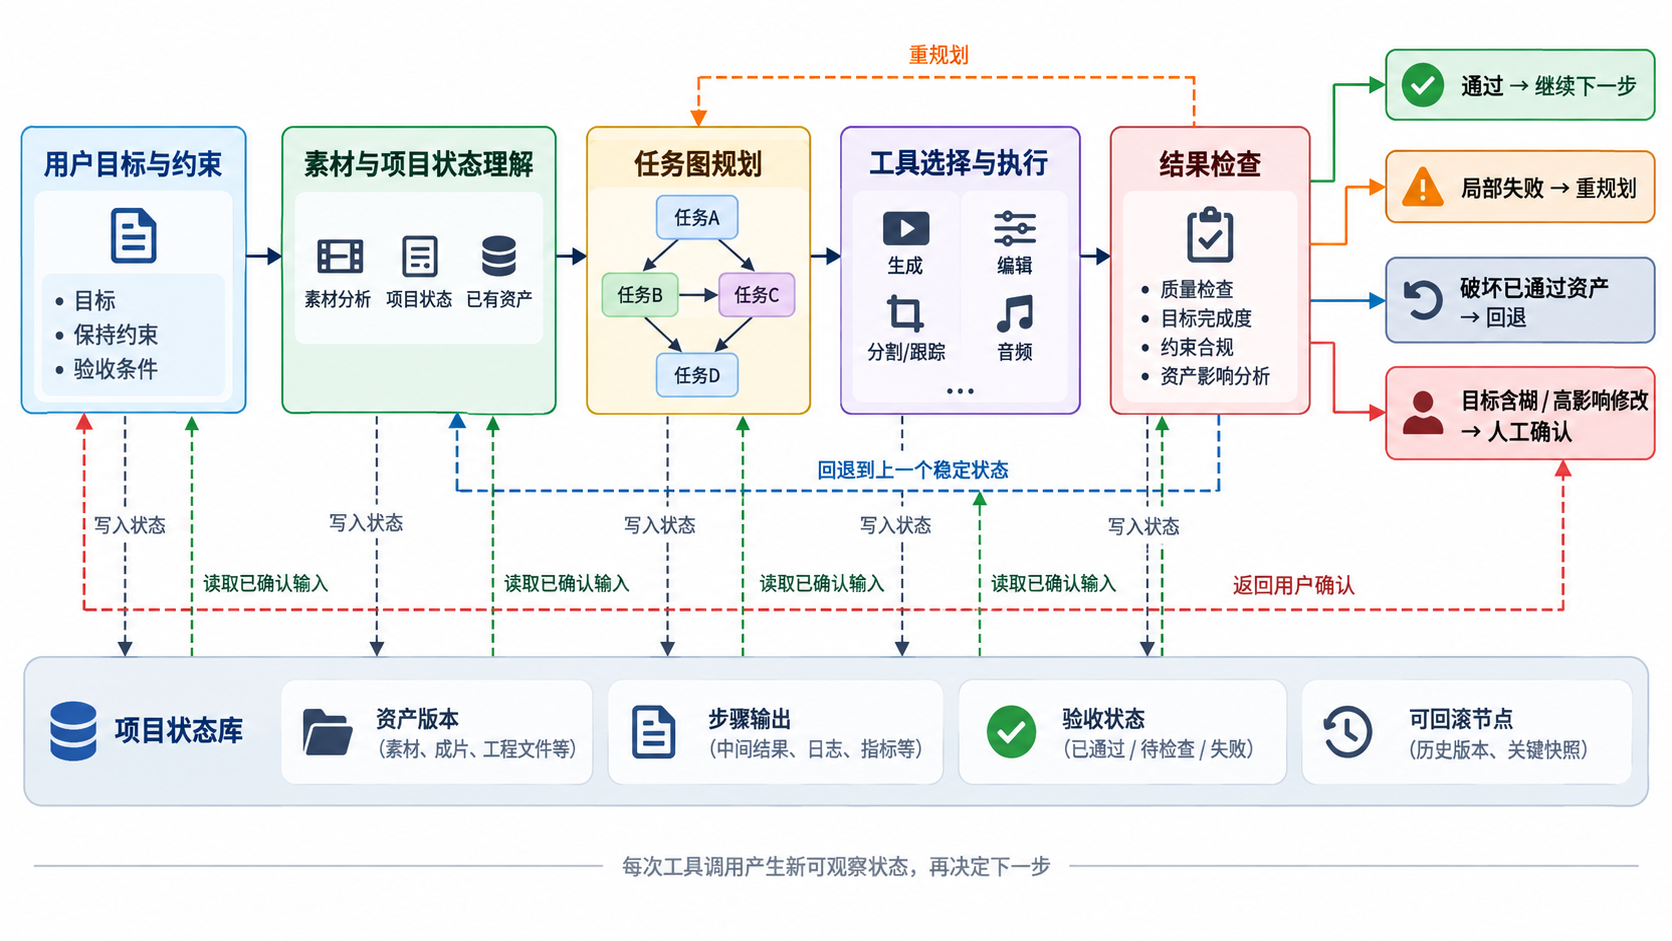
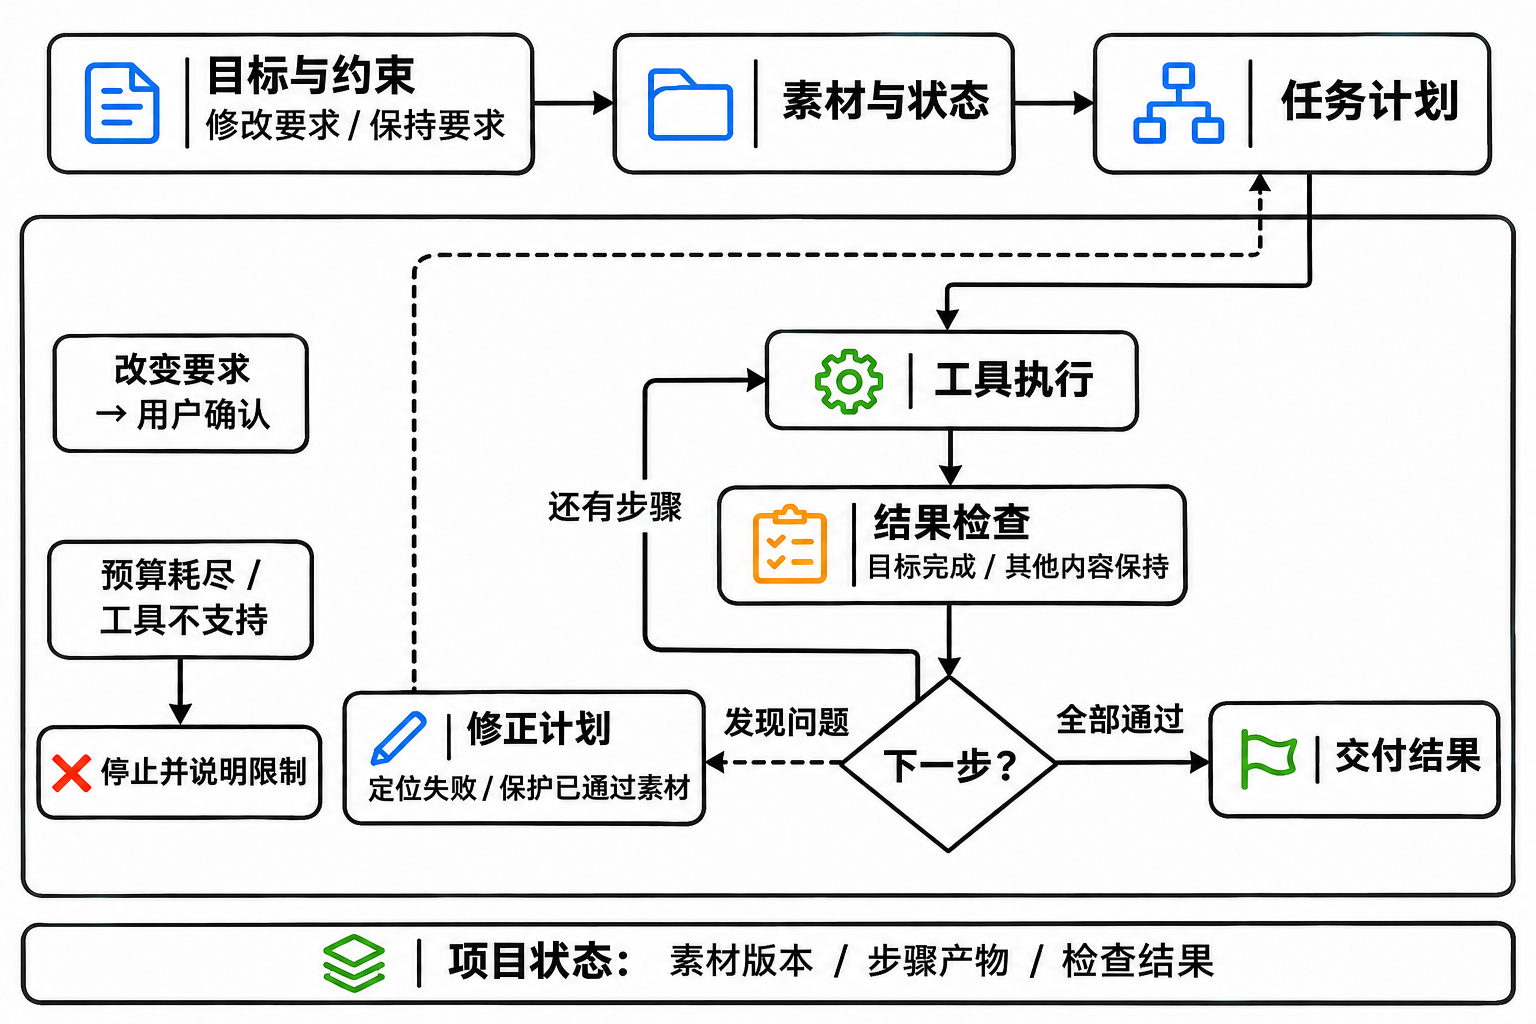
更新视频板块06章节配图

Changed region(s): [[0.0, 0.0308, 1.0, 0.9862], [0.25, 0.3698, 0.2812, 0.4006]]

diff --git a/AI视频基础（精华版）/06_AI视频多任务建模、创作工作流与能力拓展.md b/AI视频基础（精华版）/06_AI视频多任务建模、创作工作流与能力拓展.md
@@ -189,6 +189,13 @@
 
 选择时，应先明确任务范围，再考虑已有预训练模型、数据规模、目标画质和推理预算。例如，已有成熟理解模型与视频生成器时，可以优先评估连接方案；主要扩展生成与编辑条件时，可以先评估共享主干和条件组件。最终仍需比较模型在各任务上的表现与实际运行成本。
 
+图6-1对比了三种组织方式中的共享组件与信息流，表6-2则概括其收益和代价。
+
+<div align="center">
+  <img src="./imgs/ch06/fig-6-05-multitask-architectures.png" alt="对比共享序列主干、共享视频主干与条件分支，以及理解模型经连接模块接入视频生成主干的三种组织方式" width="780">
+  <p>图6-1 视频多任务模型的三种架构组织方式</p>
+</div>
+
 > **面试速答**：常见方式包括多模态离散token与共享Transformer、共享主干加任务专用组件，以及连接理解模型与视频生成主干。它们分别在序列长度、任务差异处理和跨模型特征对齐上承担不同代价，也可以组合。选择依据是任务需求、已有模型、训练数据与运行预算。
 
 延伸阅读：[VACE](https://arxiv.org/abs/2503.07598)、[Omni-Video](https://arxiv.org/abs/2507.06119)
@@ -248,11 +255,11 @@
 
 接口约定清楚后，还需验证模型是否真正按约定使用条件。例如，将同一人物图分别作为身份参考和首帧输入，应检查前者是否保持人物特征、后者是否还满足起始画面的要求。
 
-图6-1展示了条件接口的四项约定，以及如何按用途检查模型结果；*具体的编码与时空对齐方法见[4.6.3.2](#4.6.3.2_面试问题：多任务视频模型如何组织不同条件，并保留各自的用途与对应关系？)。*
+图6-2展示了条件接口的四项约定，以及如何按用途检查模型结果；*具体的编码与时空对齐方法见[4.6.3.2](#4.6.3.2_面试问题：多任务视频模型如何组织不同条件，并保留各自的用途与对应关系？)。*
 
 <div align="center">
-  <img src="./imgs/ch06/fig-6-01-unified-condition-interface.png" alt="条件接口需明确用途、表示、作用范围和缺失处理，并分别检查身份参考的人物特征保持与首帧条件的起始画面要求" width="780">
-  <p>图6-1 条件接口的四项约定与按用途验证</p>
+  <img src="./imgs/ch06/fig-6-01-unified-condition-interface.png" alt="以猫先生为同一角色参考，展示用途、表示、作用范围和缺失处理四项接口约定，并区分身份参考与首帧条件的验证要求" width="780">
+  <p>图6-2 条件接口的四项约定与按用途验证</p>
 </div>
 
 > **面试速答**：条件接口需要明确用途、表示、作用范围和缺失处理。同一张图作为身份参考或视频首帧，要求不同；掩码值和条件省略方式也必须约定清楚。接口能接收输入之后，还要验证模型是否按对应任务要求使用它。
@@ -355,6 +362,13 @@
 联合生成不要求音频和视频在程序中同一时刻完成，也不保证每次输出都同步。*具体对齐要求与验证方式见[4.6.4.2](#4.6.4.2_面试问题：音视频生成需要解决哪些对齐问题？如何判断对齐是否正确？)。*
 
 这三种方式不是完全互斥的模型类别：联合模型也可以支持固定视频生成音频等条件任务。“原生音视频”或产品同时交付声音与画面，也不足以单独判断底层采用哪种方式。
+
+图6-3对比了三种方式的依赖关系：哪些内容已先确定，以及声音与画面在生成过程中如何联系。
+
+<div align="center">
+  <img src="./imgs/ch06/fig-6-06-audiovisual-generation-routes.png" alt="以猫先生关门与讲话为例，对比固定视频生成声音、固定音频生成画面，以及音视频分支在生成过程中交换信息的路线" width="780">
+  <p>图6-3 音视频生成的三种依赖关系</p>
+</div>
 
 > **面试速答**：先视频后音频，让声音适配已有画面；音频驱动视频，让画面遵循已有声音；联合生成则在同一框架中学习和生成关联的音视频。前两种主要描述使用流程，联合生成强调建模方式。级联可以同步，联合生成也需要验证同步效果。
 
@@ -481,11 +495,11 @@
 
 重试应有次数与成本限制。工具不支持必要操作或预算耗尽时，应说明限制；*改变创作要求与重做范围的处理见[4.6.6.4](#4.6.6.4_面试问题：多轮视频创作中，如何选择局部编辑、续写或重生成，并确定重做范围？)。*
 
-图6-2展示了执行反馈如何影响后续决策。*项目素材、版本和状态如何保存，见[4.6.6](#4.6.6_AI-视频创作工作流：脚本分镜与多轮迭代)。*
+图6-4展示了执行反馈如何影响后续决策。*项目素材、版本和状态如何保存，见[4.6.6](#4.6.6_AI-视频创作工作流：脚本分镜与多轮迭代)。*
 
 <div align="center">
-  <img src="./imgs/ch06/fig-6-02-video-agent-execution-loop.png" alt="视频 Agent 从用户目标与约束出发，理解素材和项目状态、规划任务图、选择工具执行并检查结果，再根据状态继续、重规划、回退或请求人工确认" width="780">
-  <p>图6-2 视频 Agent 从需求理解到执行反馈的决策闭环</p>
+  <img src="./imgs/ch06/fig-6-02-video-agent-execution-loop.png" alt="目标与约束经素材状态理解和任务计划进入工具执行、结果检查与后续决策；全部通过后交付，失败则修正计划，重试受预算约束" width="780">
+  <p>图6-4 视频创作智能体的执行检查与后续决策</p>
 </div>
 
 > **面试速答**：先明确目标、修改范围和保持要求，再为步骤指定素材、工具、检查标准及依赖。执行后分别检查目标是否完成、其他内容是否保持，根据失败位置修正对应步骤，避免将错误传给下游。重试受预算约束，需要改变用户要求时再澄清。
@@ -584,11 +598,11 @@
 
 修改完成后，重新检查受影响的后续内容。例如，镜头时长改变，需要复查相关音轨、字幕和转场位置；服装设定改变，则需检查适用镜头中的服装是否一致。
 
-图6-3展示了这些环节之间的制作与修改关系。
+图6-5展示了这些环节之间的制作与修改关系。
 
 <div align="center">
-  <img src="./imgs/ch06/fig-6-03-creative-project-loop.png" alt="AI 视频项目从创作意图、脚本事件、分镜和版本化角色场景声音资产，进入镜头生成、时间线组接、质量检查与成片，并将不同问题回流到对应责任层" width="780">
-  <p>图6-3 AI 视频从创作意图到成片验收的项目级闭环</p>
+  <img src="./imgs/ch06/fig-6-03-creative-project-loop.png" alt="以猫先生为角色参考与镜头内容，展示镜头检查通过后采用明确版本，再组接声音、验收交付并按问题定位修改的工作流" width="780">
+  <p>图6-5 视频创作的制作、验收与局部修改</p>
 </div>
 
 工作流不要求所有项目采用固定顺序：已有视频可以直接进入编辑和组接，已确定的对白也可以先作为时间依据。关键是保留中间成果及其关联，让问题能够定位、修改结果能够继续使用。*具体状态与版本信息见[4.6.6.3](#4.6.6.3_面试问题：多镜头、多轮创作需要保存哪些项目状态、素材与版本信息？)。*
@@ -719,11 +733,11 @@
 
 因此，系统需要明确新操作从哪里生效，以及尚未播放的旧内容是继续使用、丢弃还是重新生成。更新后，还应检查新画面是否与已经显示的内容衔接。
 
-较大的生成块可能提高计算效率，却也可能延长等待新操作生效的时间。块大小与缓冲长度需要结合播放流畅度和响应要求选择。图6-4展示了一种实时交互链路。
+较大的生成块可能提高计算效率，却也可能延长等待新操作生效的时间。块大小与缓冲长度需要结合播放流畅度和响应要求选择。图6-6展示了一种实时交互链路。
 
 <div align="center">
-  <img src="./imgs/ch06/fig-6-04-realtime-video-generation-loop.png" alt="用户或 Agent 动作经控制编码进入带历史缓存的因果视频生成器，再由 VAE 解码显示并形成新观测反馈，同时维护会话状态、取消回滚分支和多类延迟指标" width="780">
-  <p>图6-4 实时交互式视频生成的状态与延迟闭环</p>
+  <img src="./imgs/ch06/fig-6-04-realtime-video-generation-loop.png" alt="区分首次画面延迟、操作响应延迟与持续输出能力，以猫先生只在新操作生效边界后转头的画面展示播放缓冲与响应关系" width="780">
+  <p>图6-6 流式视频的播放缓冲与操作响应</p>
 </div>
 
 **3、分别测量启动、响应与持续输出表现**
@@ -836,6 +850,13 @@ TiViBench等专项评测可作为任务设计参考[14]。
 评估时应固定任务、输出规格和总预算，比较最终选出视频的任务成功率、关键错误及内容质量，并使用独立检查或人工复核，避免只报告搜索所优化的评分。
 
 *项目级工具安排见 [4.6.5](#4.6.5_视频创作智能体：任务规划、工具执行与评估)；降低单次推理开销的方法见 [4.5.6.2](05_视频生成训练与工程优化.md#4.5.6.2_面试问题：视频生成推理有哪些加速方法？各自的收益与代价是什么？)。*
+
+图6-7展示了多候选选择、分支搜索与回溯续写的区别；搜索能否改善最终结果，还取决于验证与成本。
+
+<div align="center">
+  <img src="./imgs/ch06/fig-6-07-video-search-verification.png" alt="对比多候选验证选择、扩展后续分支与保留有效前缀重新续写，并提示验证误判与总成本限制" width="780">
+  <p>图6-7 视频生成的候选选择、分支搜索与回溯续写</p>
+</div>
 
 > **面试速答**：额外计算可用于多候选选择、分支搜索和从有效片段重新续写。实际收益既受候选质量限制，也受验证器准确性和完整成本限制。应比较最终选出的结果，不能用候选中的最好样例或更高评分代替实际收益。
 
